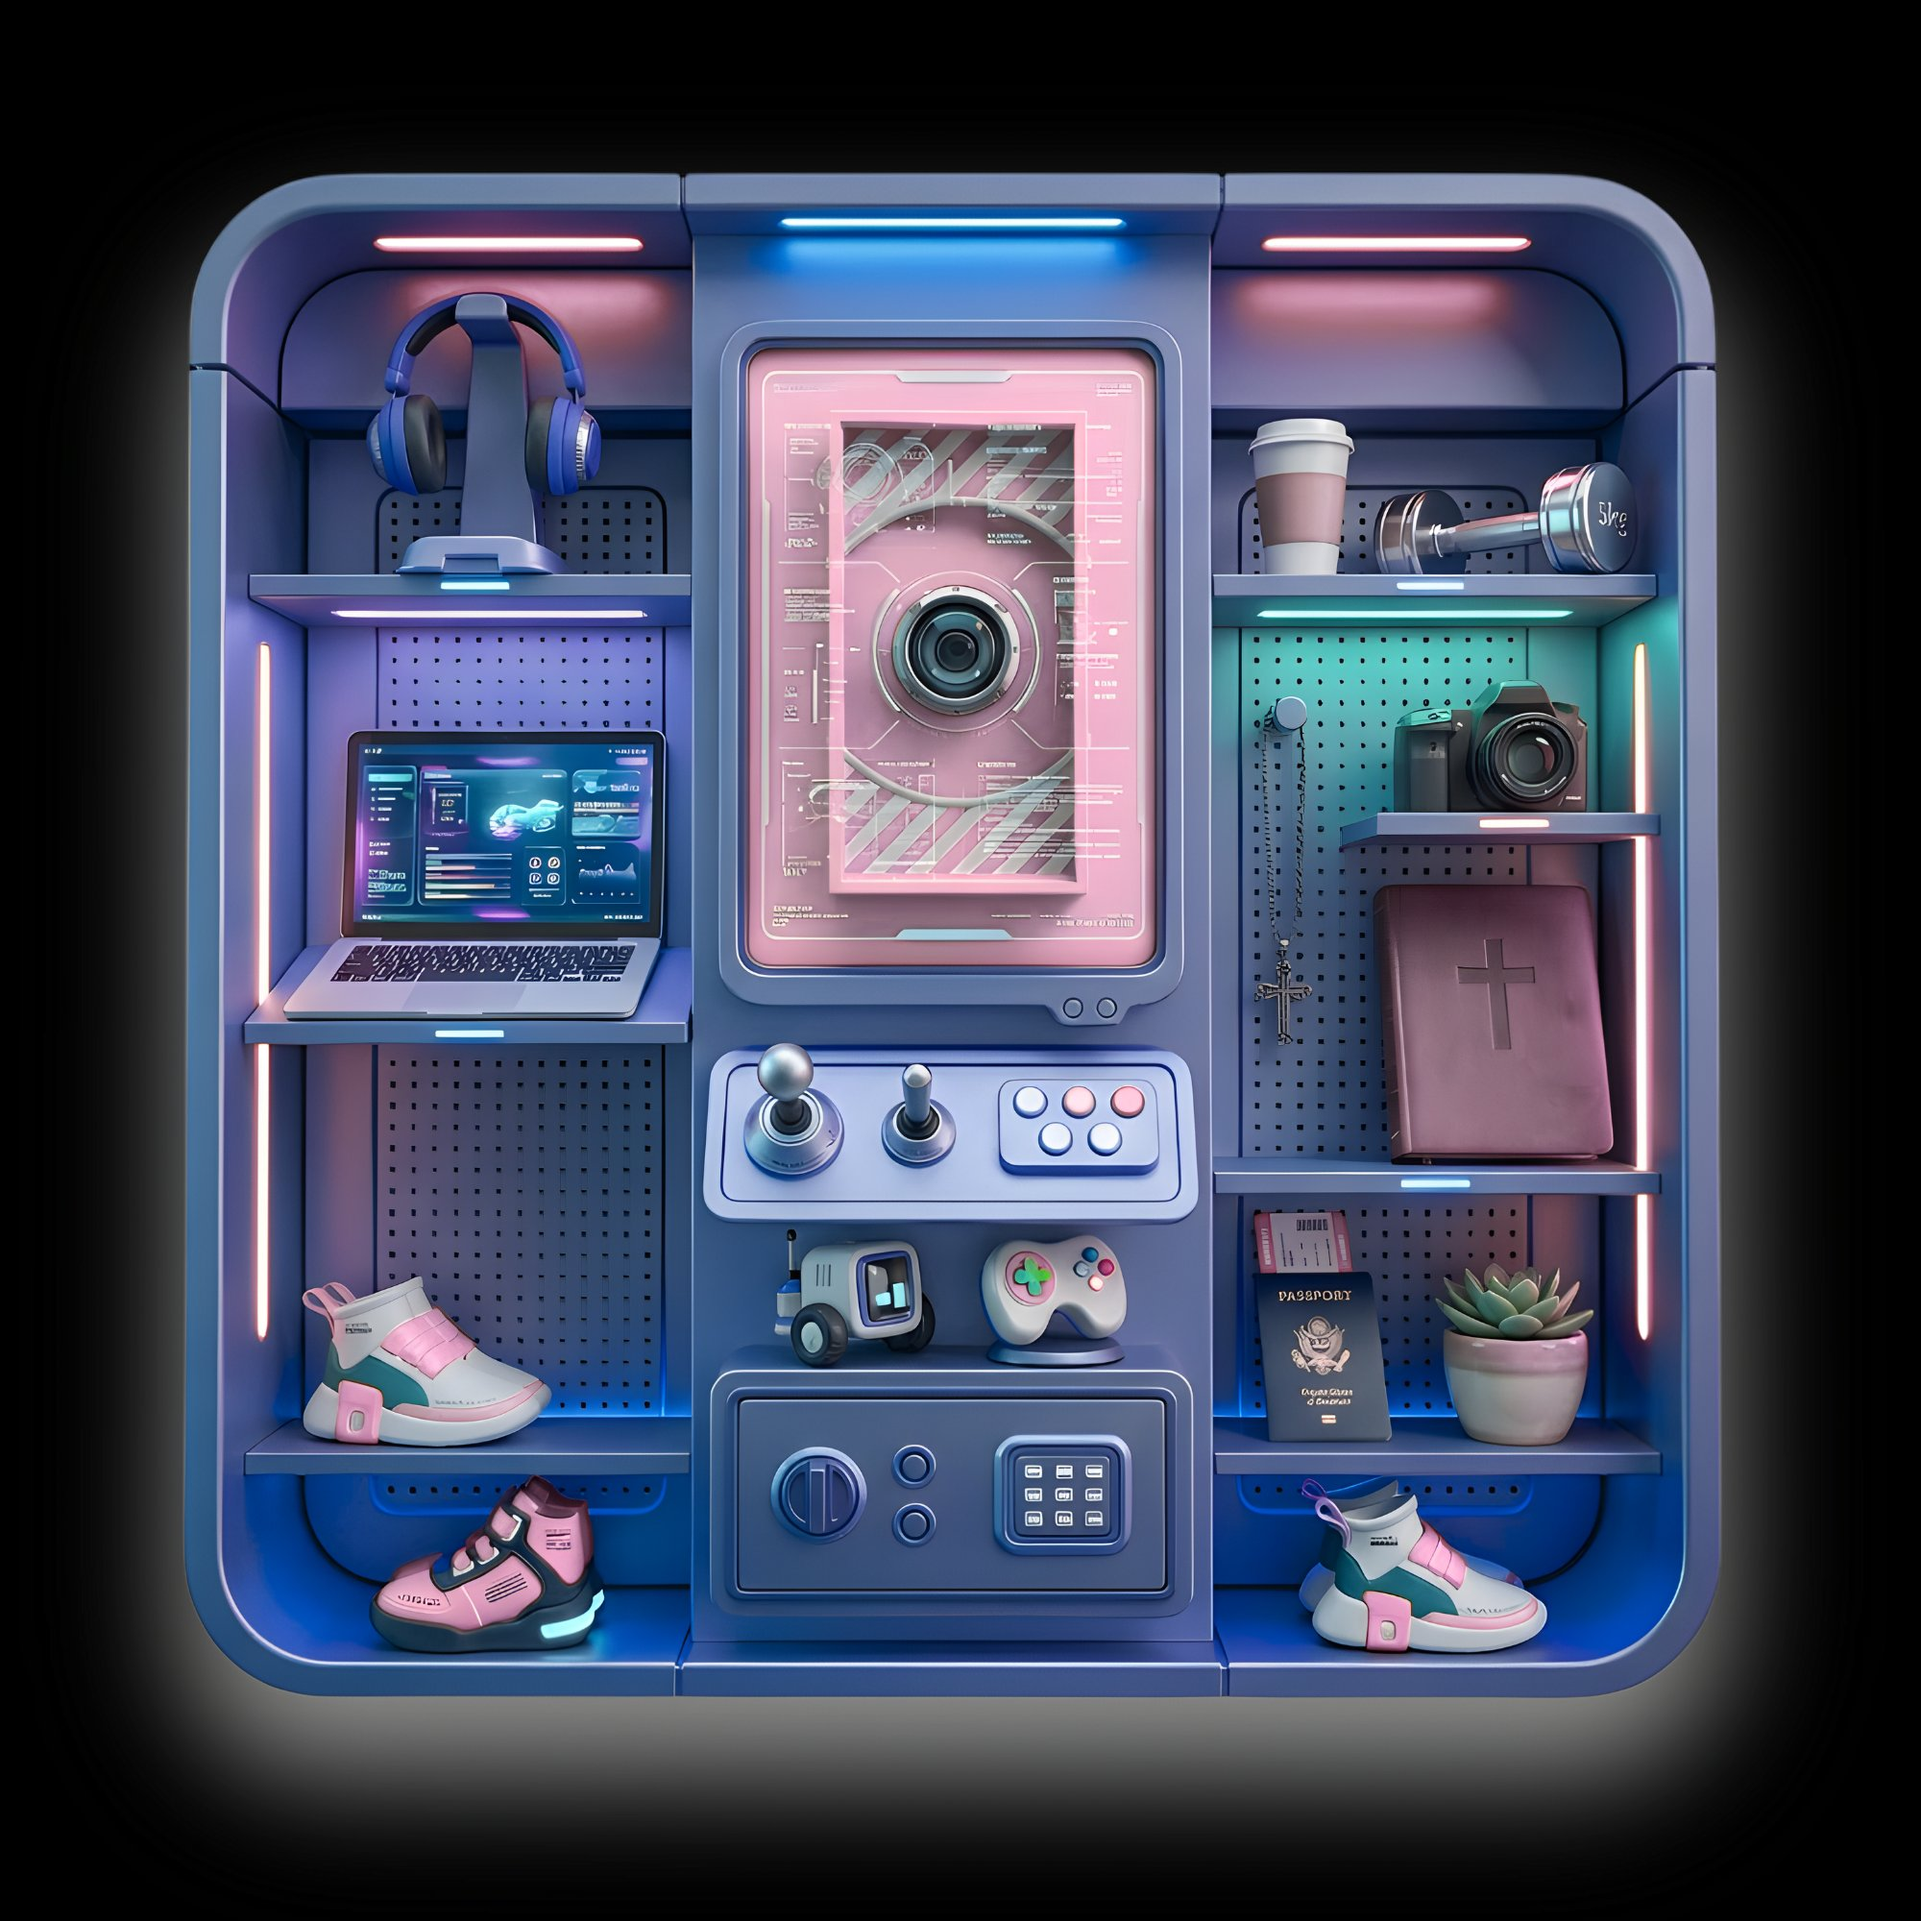
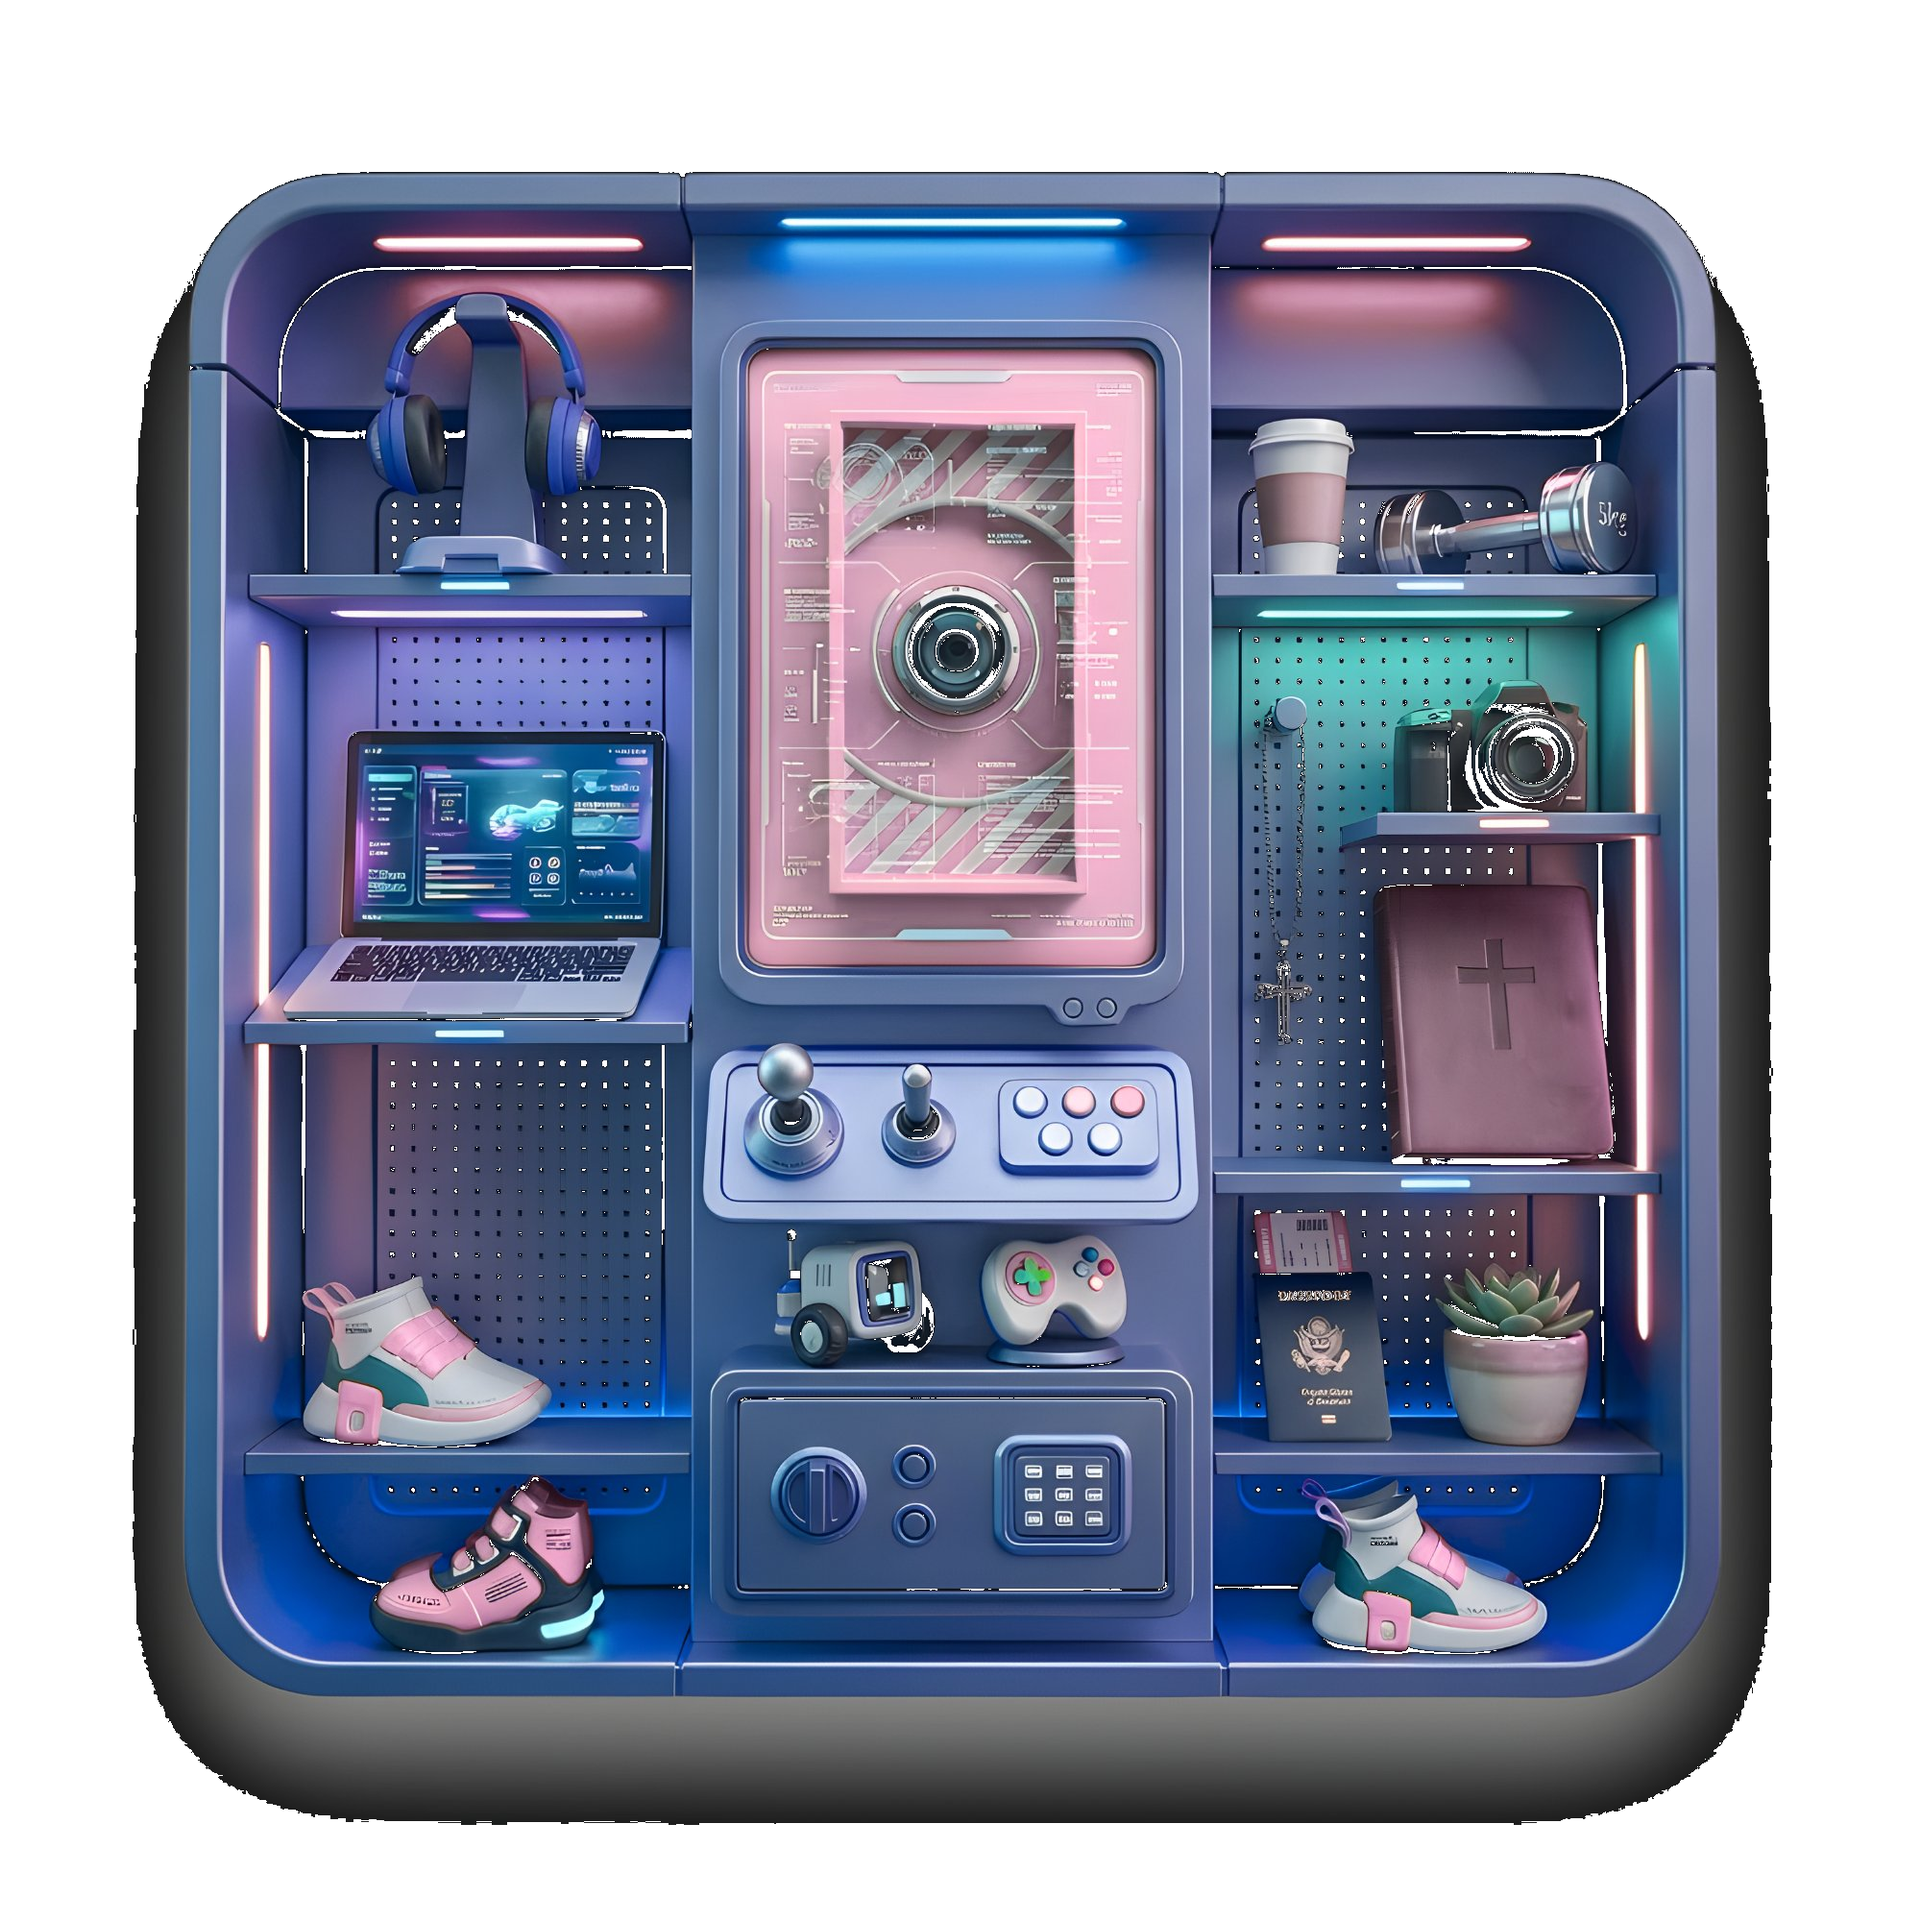
Fix: remove black background from closet image, theme-adaptive container

diff --git a/css/home.css b/css/home.css
@@ -33,7 +33,7 @@
 @keyframes bDrift{0%,100%{transform:translate(0,0)}50%{transform:translate(15px,-10px)}}
 .vis-label{font-size:.8rem;font-weight:400;color:var(--text-3);z-index:1}
 .vis-sub{font-size:.65rem;color:var(--text-3);opacity:.6;z-index:1}
-.hero-closet-img{width:100%;height:100%;object-fit:cover;border-radius:24px;display:block}
+.hero-closet-img{width:100%;height:100%;object-fit:contain;border-radius:24px;display:block;background:var(--bg);padding:1rem}
 .visual-frame{display:none}
 
 /* Scroll cue */
